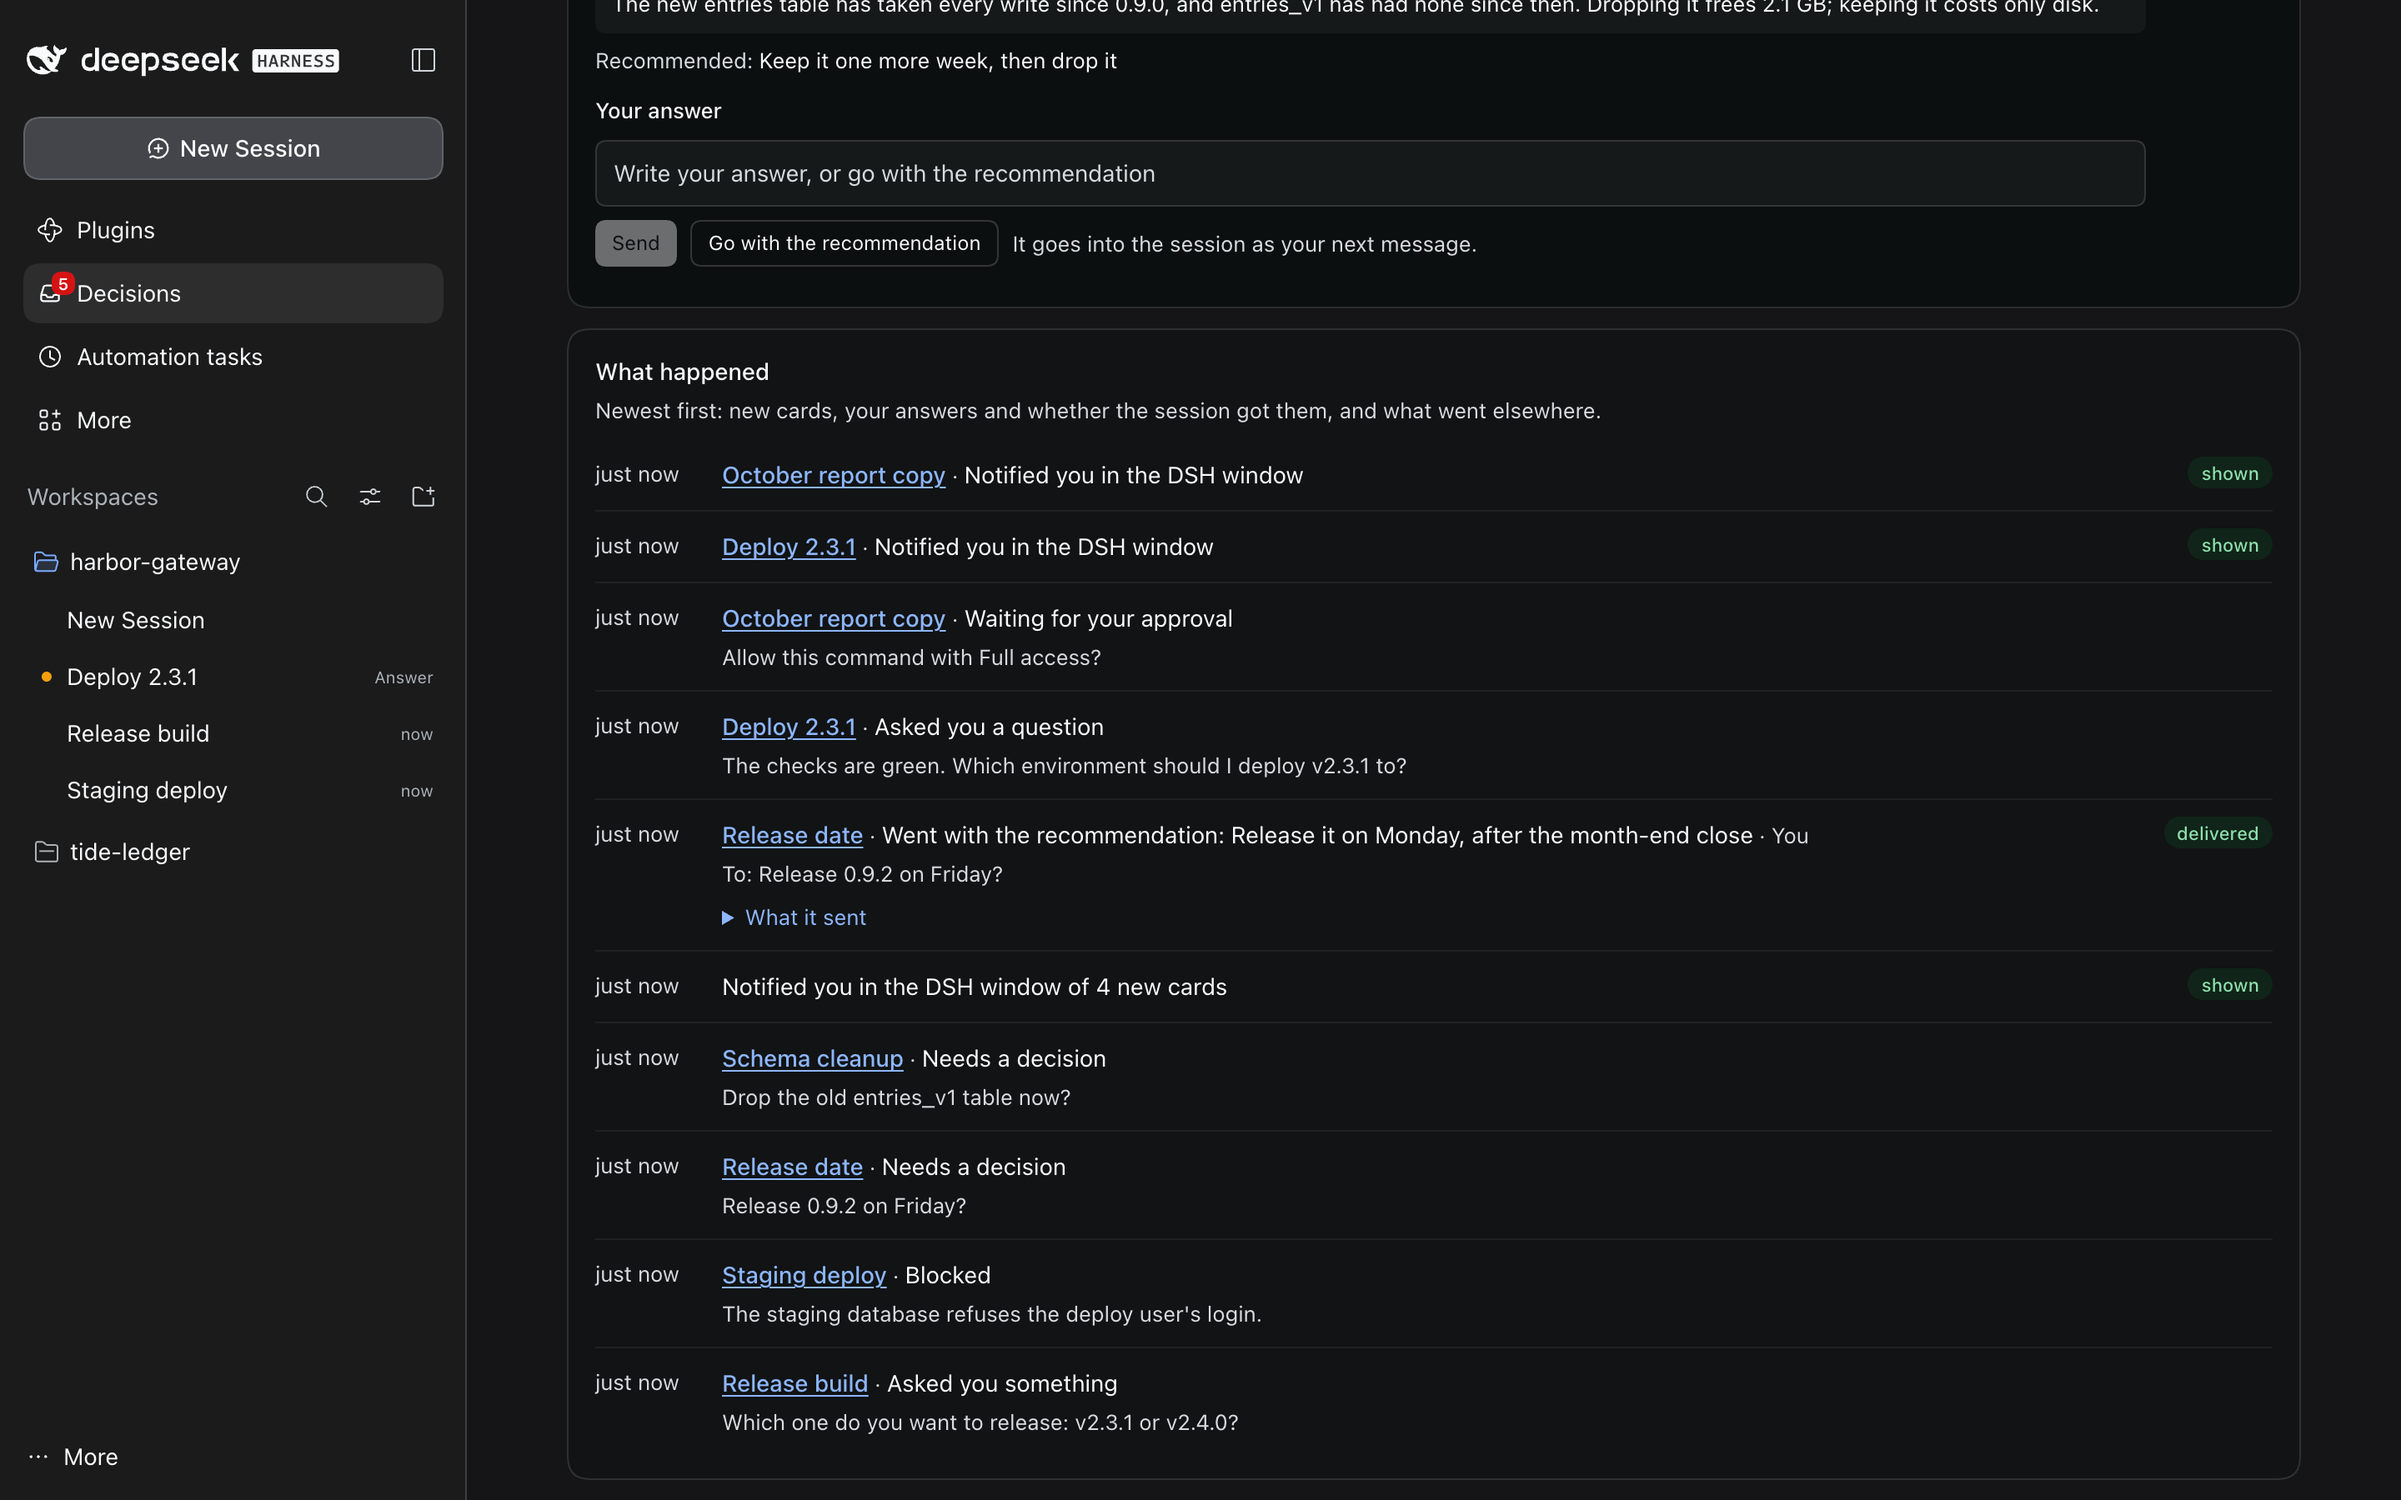
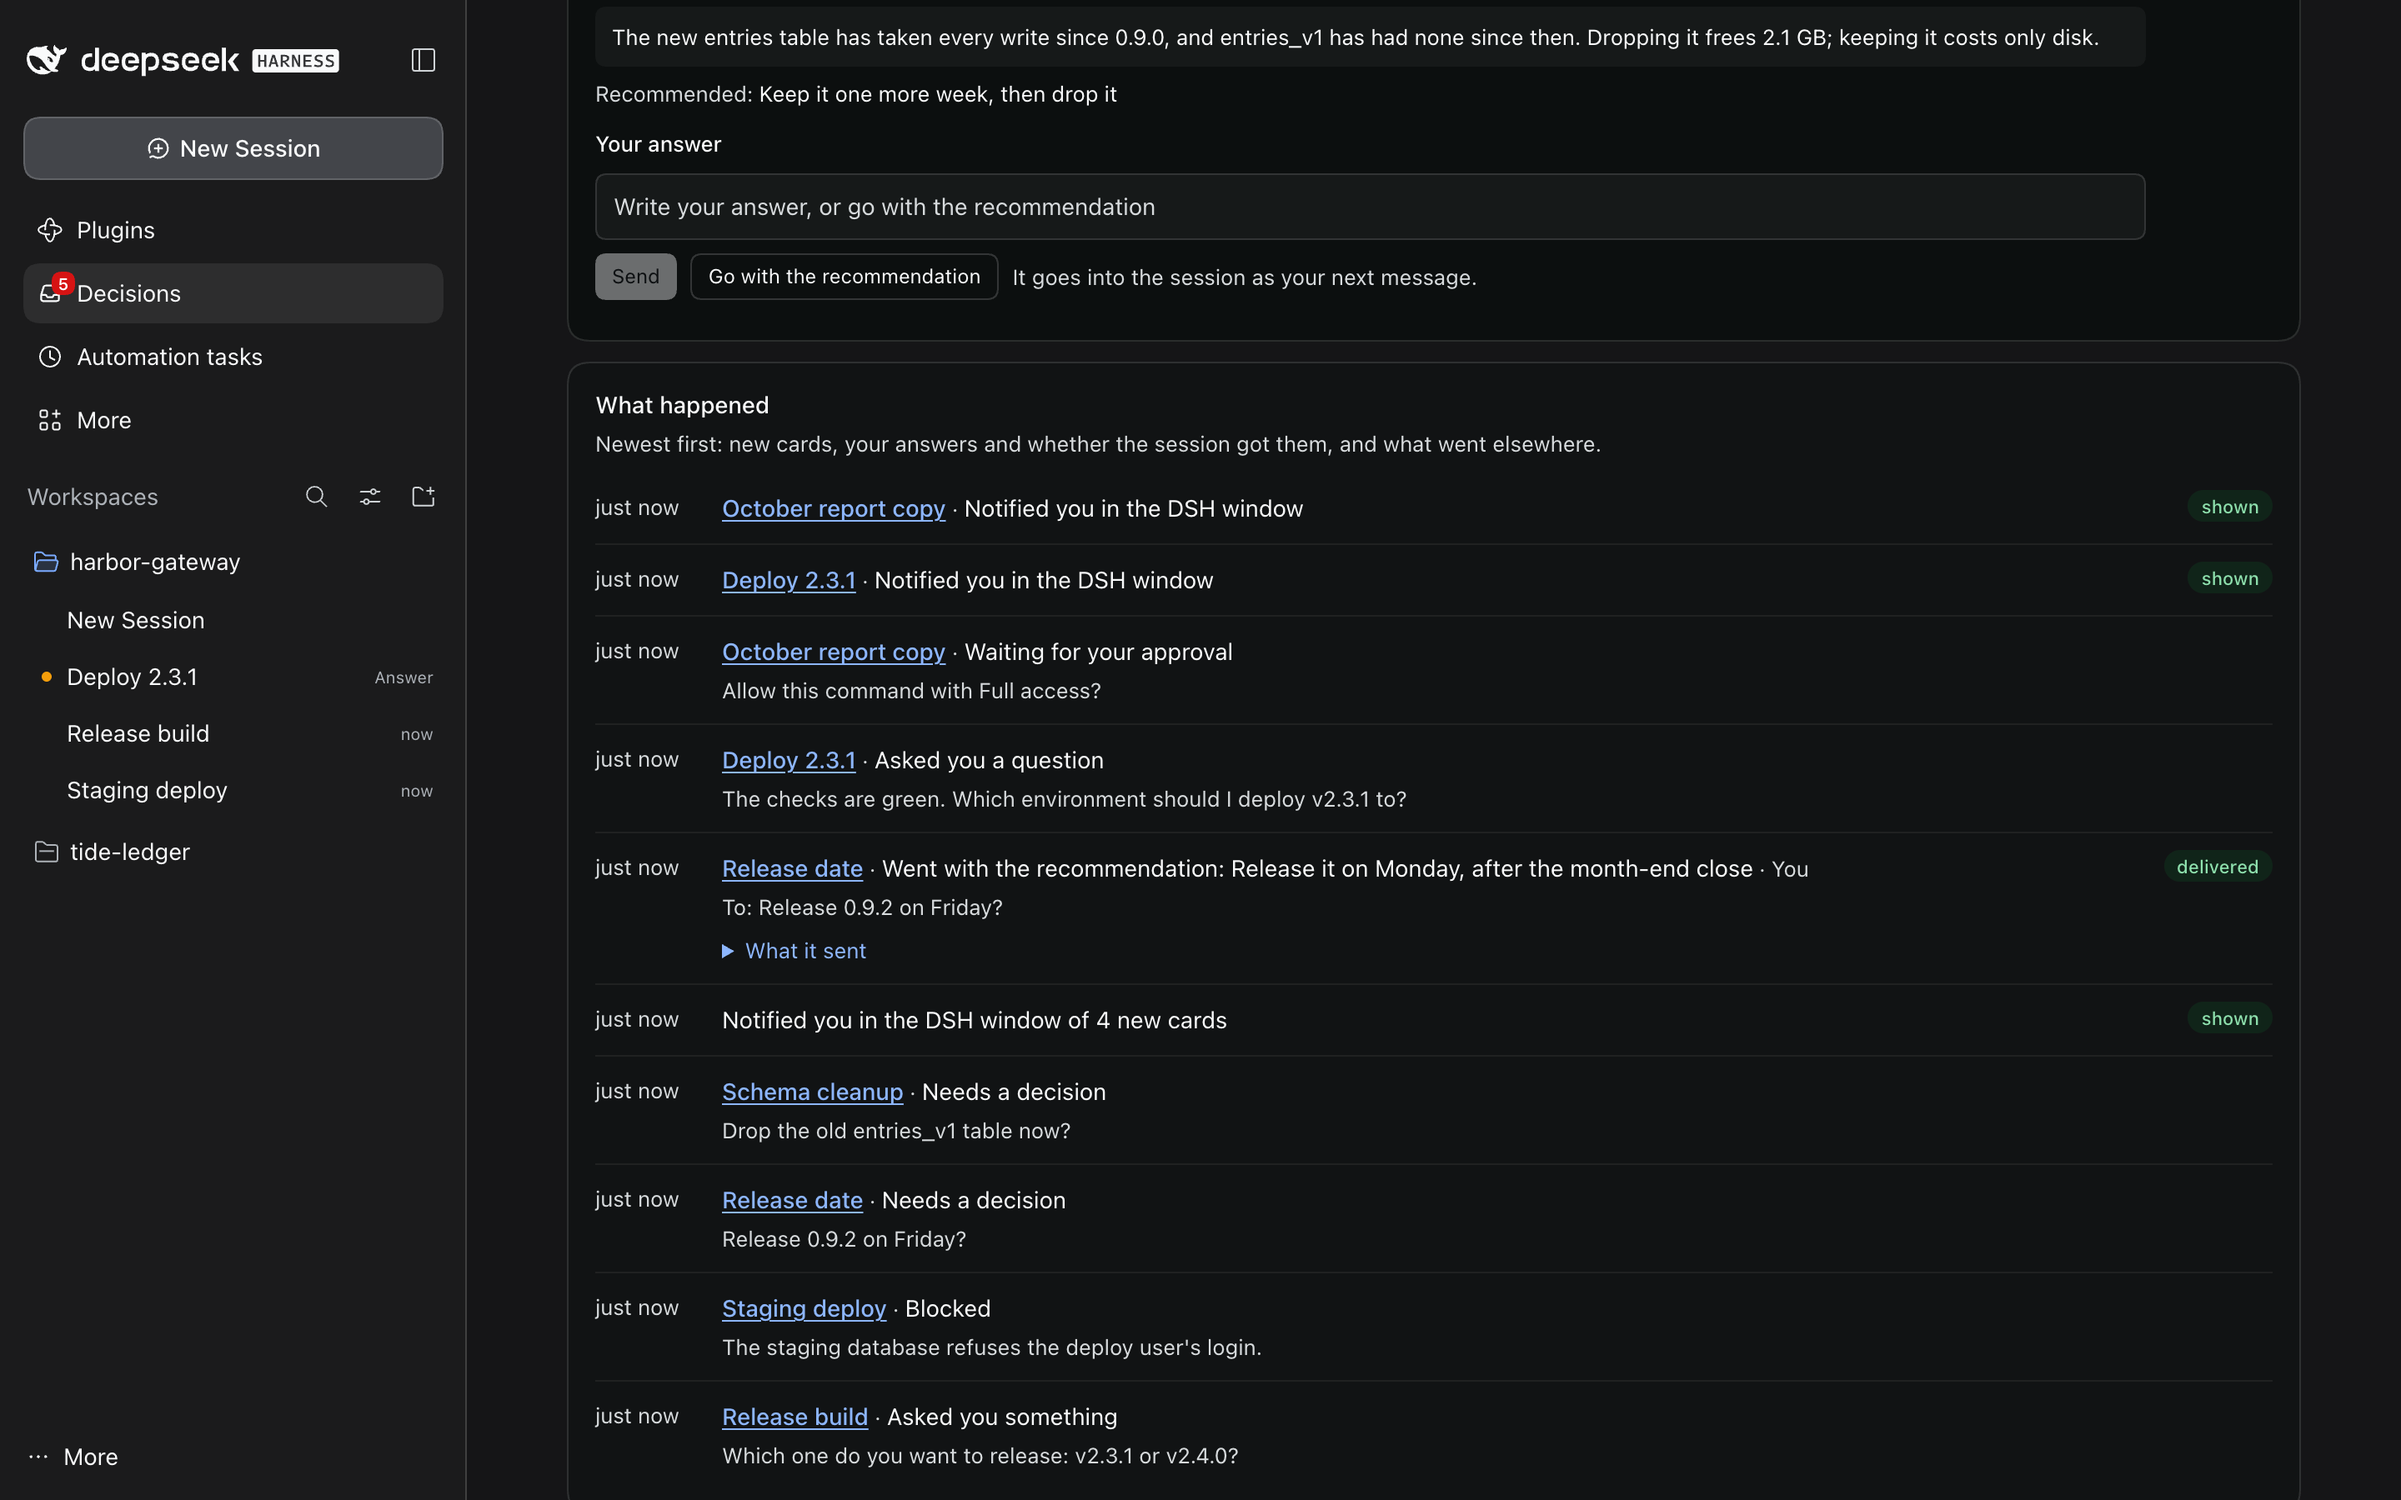
Showcase: fuller Session Watch picture, plain words for drawn and recorded parts
- Session Watch: five more sessions wait for an answer, so its second picture
  lists six; that picture is framed like the first, with only the room the
  page needs to scroll there.
- Decisions: the history picture no longer starts on a cut line of text.
- Notifications: the window sends the notifications (a recorder stands in for
  the system in the demo), and the words say so; requires names the web
  profile too.
- DSH Site: the demo always uses port 18443 (it stops when that port is
  busy), and the caption names DSH Site's own 8443.
- Categories and Discord captions say how the folder is written and how a
  Discord message comes in.
- README: what npm run showcase needs.

diff --git a/README.md b/README.md
@@ -51,14 +51,14 @@ One picture of each plugin, from a demo home. Each plugin's README has more.
 </tr>
 <tr>
 <td width="50%" valign="top"><a href="plugins/discord"><img src="docs/screenshots/discord/thread-dark.png" alt="A Discord thread in dark mode: Maya asks what changed in the gateway since 2.3, and DSH Bot answers with three changes and a draft for the changelog."></a><br><a href="plugins/discord"><b>Discord</b></a> 0.2.0: A Discord bot for your own channels: each conversation gets a thread and its own DSH session.</td>
-<td width="50%" valign="top"><a href="plugins/session-watch"><img src="docs/screenshots/session-watch/watching-dark.png" alt="Session Watch's part in Plugins, in dark mode: 31 sessions, 1 running and 2 waiting on you, a button for each state, and the idle sessions listed."></a><br><a href="plugins/session-watch"><b>Session Watch</b></a> 1.1.0: The shared watcher behind Autopilot, Decisions and Agent Terminals.</td>
+<td width="50%" valign="top"><a href="plugins/session-watch"><img src="docs/screenshots/session-watch/watching-dark.png" alt="Session Watch's part in Plugins, in dark mode: 36 sessions, 1 running and 7 waiting on you, a button for each state, and the idle sessions listed."></a><br><a href="plugins/session-watch"><b>Session Watch</b></a> 1.1.0: The shared watcher behind Autopilot, Decisions and Agent Terminals.</td>
 </tr>
 <tr>
 <td width="50%" valign="top"><a href="plugins/categories"><img src="docs/screenshots/categories/page-dark.png" alt="The Categories page in dark mode: the categories Backend and Writing over their workspaces and chats, then Other workspaces, with the same headers in DSH's session list."></a><br><a href="plugins/categories"><b>Categories</b></a> 0.1.0: Group your workspaces into categories in DSH's session list.</td>
 <td width="50%" valign="top"><a href="plugins/reasoning-pill"><img src="docs/screenshots/reasoning-pill/chat-dark.png" alt="A chat in dark mode with the control Reasoning: High beside the model name, and its menu open: Default, Low, Medium, High, Xhigh and Max."></a><br><a href="plugins/reasoning-pill"><b>Reasoning pill</b></a> 0.1.0: One place to set reasoning: a Reasoning control beside the model name.</td>
 </tr>
 <tr>
-<td width="50%" valign="top"><a href="plugins/notifications"><img src="docs/screenshots/notifications/page-dark.png" alt="Notifications page in dark mode: six recent notifications, each shown on screen by DSH's window, each with an Open chat link."></a><br><a href="plugins/notifications"><b>Notifications</b></a> 0.1.0: System notifications while you are not using DSH's window.</td>
+<td width="50%" valign="top"><a href="plugins/notifications"><img src="docs/screenshots/notifications/page-dark.png" alt="Notifications page in dark mode: six recent notifications, each marked shown, each with an Open chat link."></a><br><a href="plugins/notifications"><b>Notifications</b></a> 0.1.0: System notifications while you are not using DSH's window.</td>
 <td width="50%" valign="top"><a href="plugins/wallpaper"><img src="docs/screenshots/wallpaper/chat-dark.png" alt="DSH in dark mode over a dusk gradient, with the sidebar, the open chat and the right dock as frosted glass."></a><br><a href="plugins/wallpaper"><b>Wallpaper</b></a> 0.1.0: Your wallpapers behind DSH, with frosted glass, colour mode and motion.</td>
 </tr>
 <tr>
@@ -171,6 +171,13 @@ npm run test:e2e:decisions
 # any suite plugin (autopilot, decisions, agent-terminals, proof, canon, recall) on every DSH under .e2e/ and the installed app's
 node scripts/e2e.mjs proof
 ```
+
+`npm run showcase` needs ImageMagick 7 (`magick`), `git`, `script`, `curl` and
+`jq`, Playwright with its Chromium (`PLAYWRIGHT_MODULE`, else `.e2e/tools`, else
+an installed `playwright` or `playwright-core`; see `test/e2e/harness.mjs`) and a
+DSH to run: the installed app's, else the newest under `.e2e/`, or the one that
+`--dsh <version>` names. `npm run showcase -- recall decisions` takes only those
+plugins' pictures.
 
 ## License
 

diff --git a/plugins/session-watch/README.md b/plugins/session-watch/README.md
@@ -20,19 +20,19 @@ reload, a question in DSH's question box included: a chosen state stays
 open when its last session leaves it, and says so.
 
 <!-- showcase:hero -->
-![Session Watch's part in Plugins, in dark mode: 31 sessions, 1 running and 2 waiting on you, a button for each state, and the idle sessions listed.](../../docs/screenshots/session-watch/watching-dark.png)
+![Session Watch's part in Plugins, in dark mode: 36 sessions, 1 running and 7 waiting on you, a button for each state, and the idle sessions listed.](../../docs/screenshots/session-watch/watching-dark.png)
 <!-- /showcase:hero -->
 
 <!-- showcase:screenshots -->
 ## Screenshots
 
-![Session Watch's part in Plugins, in light mode: 31 sessions, 1 running and 2 waiting on you, a button for each state, and the idle sessions listed.](../../docs/screenshots/session-watch/watching-light.png)
+![Session Watch's part in Plugins, in light mode: 36 sessions, 1 running and 7 waiting on you, a button for each state, and the idle sessions listed.](../../docs/screenshots/session-watch/watching-light.png)
 
 *The same part in light mode.*
 
-![Session Watch with the state waiting for your answer chosen: one session, Changelog format, which the session list also marks Answer.](../../docs/screenshots/session-watch/list-dark.png)
+![Session Watch with the state waiting for your answer chosen: six sessions, newest first, each with Open. The session list marks two of them, Changelog format and Fiscal year, Answer.](../../docs/screenshots/session-watch/list-dark.png)
 
-*Choose a state to list its sessions: here, the one that waits for your answer.*
+*Choose a state to list its sessions: here, the ones that wait for your answer.*
 
 Made by `npm run showcase` in a demo home; [docs/site.json](../../docs/site.json) lists them, with their words.
 <!-- /showcase:screenshots -->

diff --git a/plugins/notifications/README.md b/plugins/notifications/README.md
@@ -9,7 +9,7 @@ clears. It is built for long unattended runs: you leave DSH working, and the
 news finds you.
 
 <!-- showcase:hero -->
-![Notifications page in dark mode: six recent notifications, each shown on screen by DSH's window, each with an Open chat link.](../../docs/screenshots/notifications/page-dark.png)
+![Notifications page in dark mode: six recent notifications, each marked shown, each with an Open chat link.](../../docs/screenshots/notifications/page-dark.png)
 <!-- /showcase:hero -->
 
 - **It shows with DSH's icon**, from DSH's own window, while you are not
@@ -38,13 +38,13 @@ news finds you.
 <!-- showcase:screenshots -->
 ## Screenshots
 
-![Notifications page in light mode: six recent notifications, each shown on screen by DSH's window, each with an Open chat link.](../../docs/screenshots/notifications/page-light.png)
+![Notifications page in light mode: six recent notifications, each marked shown, each with an Open chat link.](../../docs/screenshots/notifications/page-light.png)
 
 *The same page in light mode.*
 
 ![Three notification banners from DeepSeek Harness: two sessions need a decision and one is blocked.](../../docs/screenshots/notifications/banners-dark.png)
 
-*Drawn from the newest 3 of the 6 notifications that DSH's window showed in this run. Your system draws its own banners.*
+*Drawn from the newest 3 of the 6 notifications that DSH's window sent in this run. Your system draws its own banners.*
 
 Made by `npm run showcase` in a demo home; [docs/site.json](../../docs/site.json) lists them, with their words.
 <!-- /showcase:screenshots -->

diff --git a/plugins/discord/README.md b/plugins/discord/README.md
@@ -35,7 +35,7 @@ on Node 22's `fetch` and `WebSocket`.
 
 ![The thread's DSH session, named Discord — Gateway changes since 2.3, where each turn sent its answer to the thread.](../../docs/screenshots/discord/session-light.png)
 
-*DSH's side: the thread has a session of its own, which you can open and read.*
+*DSH's side: the thread has a session of its own, which you can open and read. Each Discord message comes in as an Execution requested row; open one to read it.*
 
 Made by `npm run showcase` in a demo home; [docs/site.json](../../docs/site.json) lists them, with their words.
 <!-- /showcase:screenshots -->
